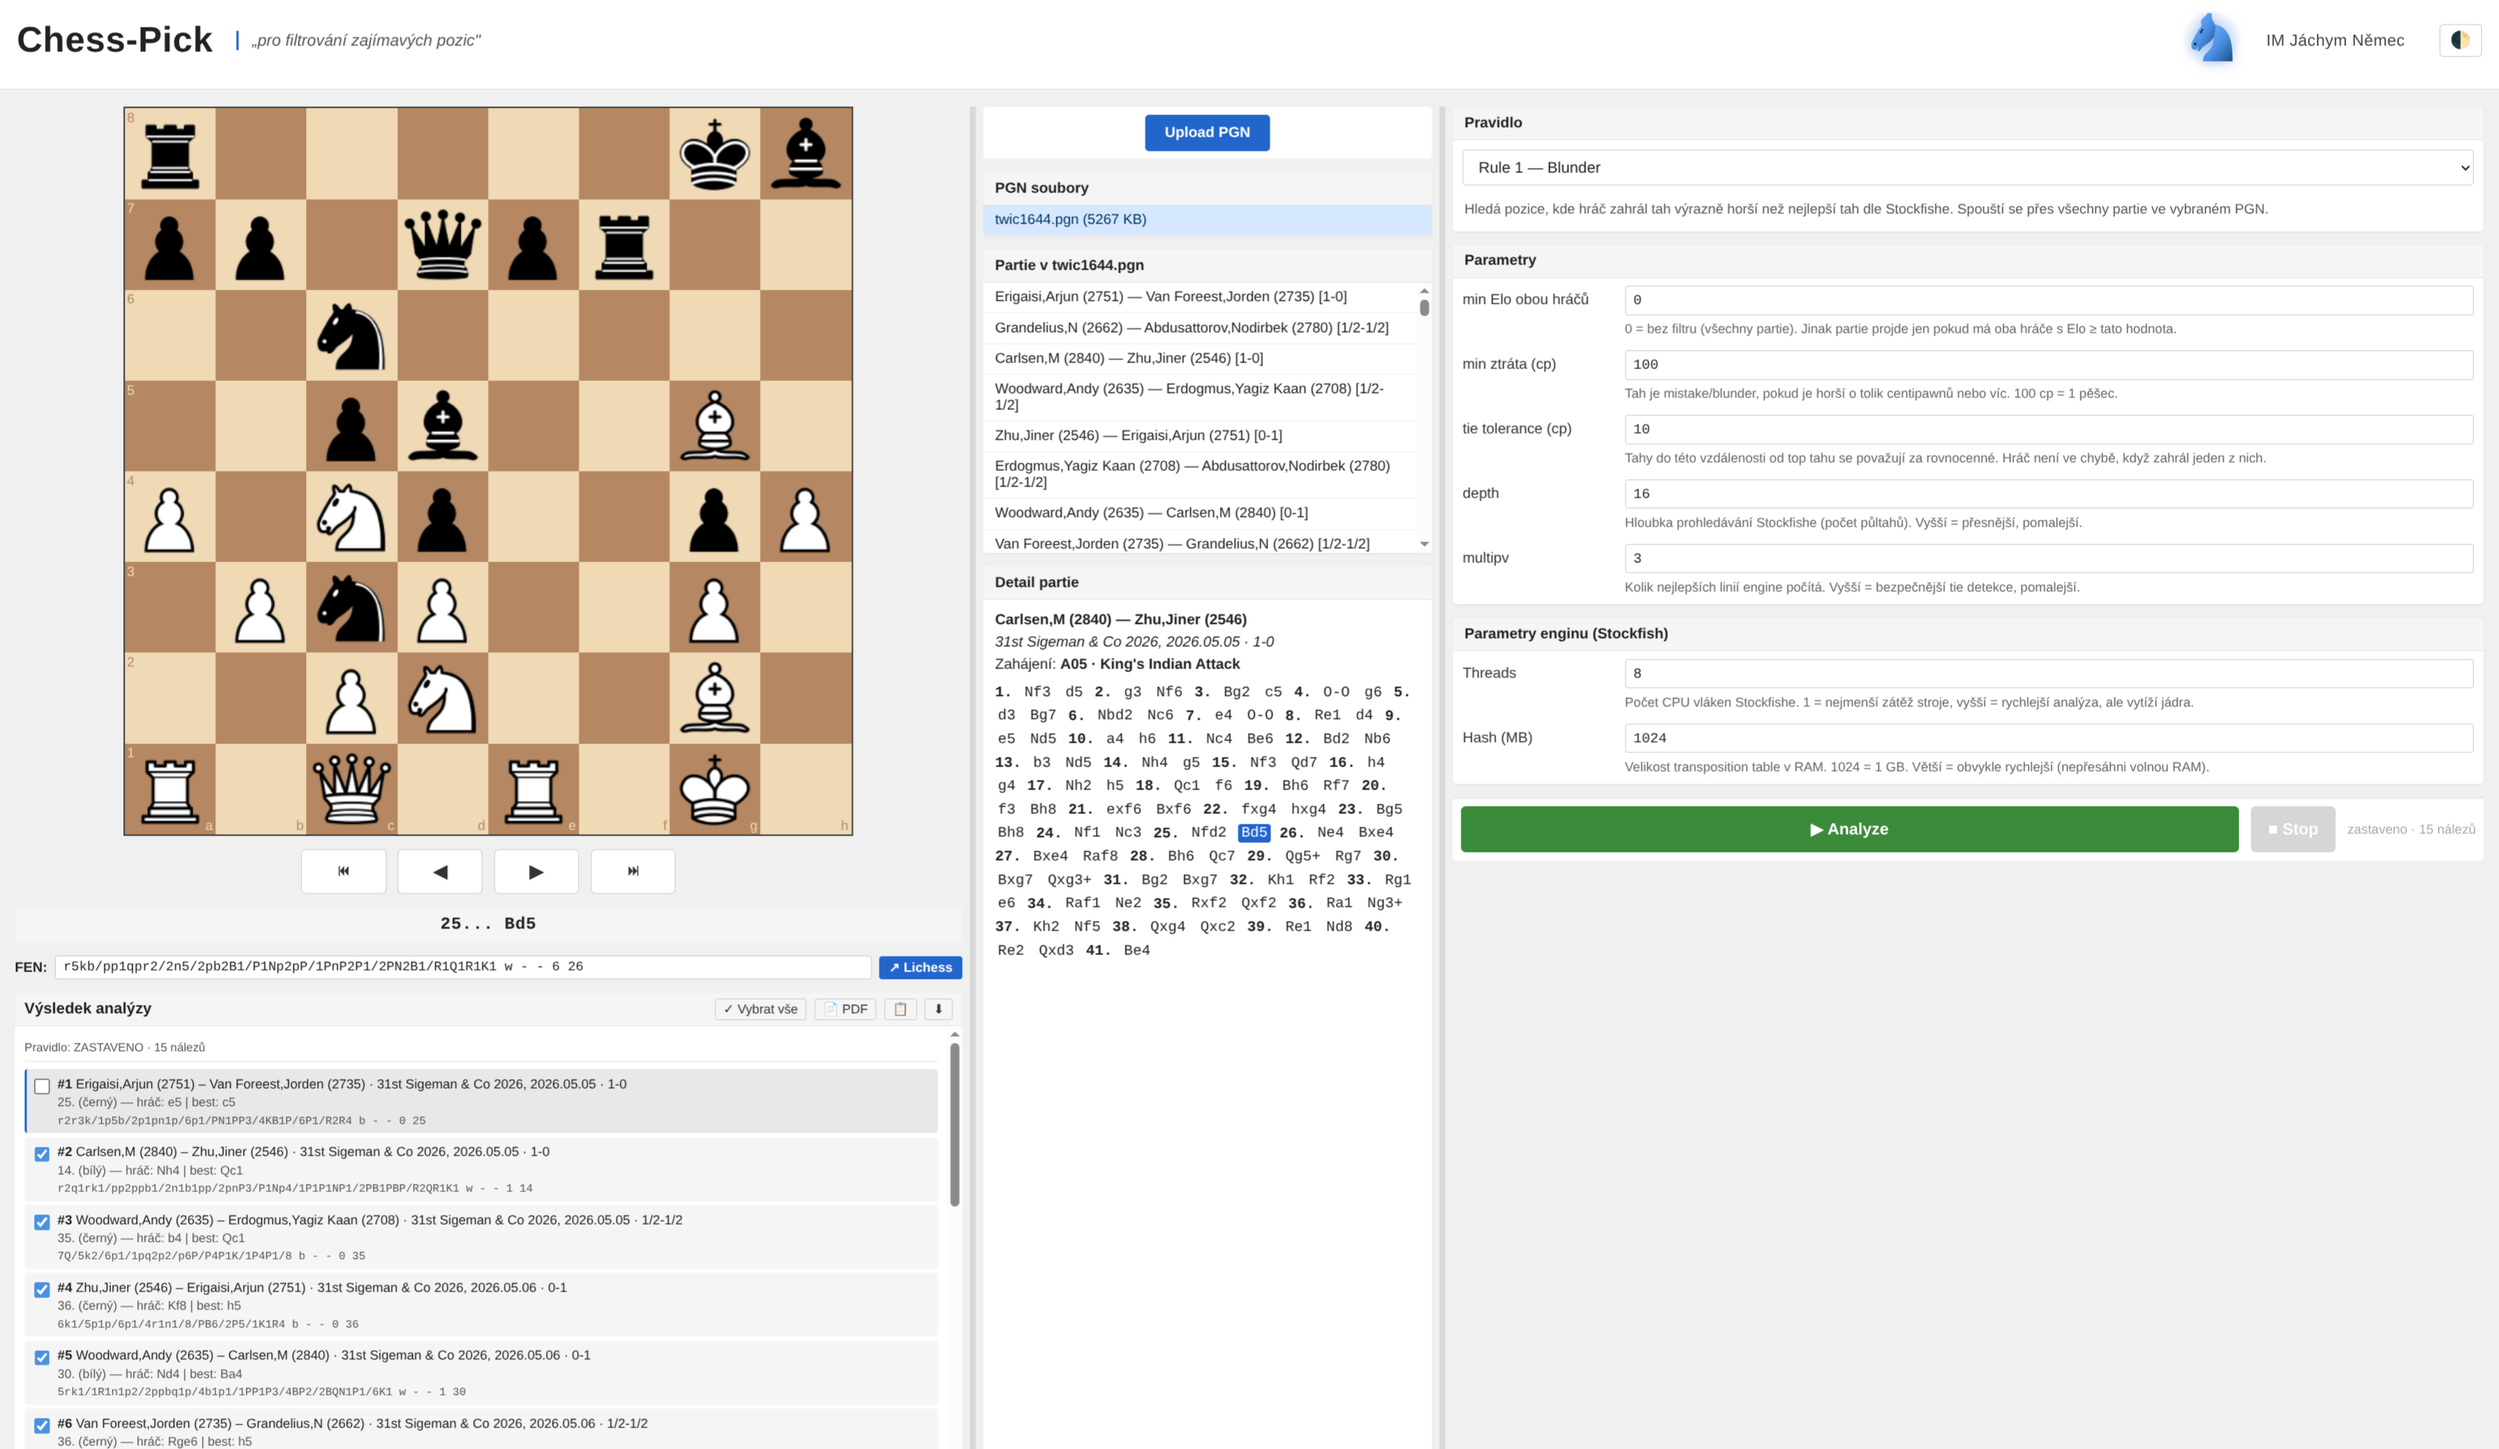
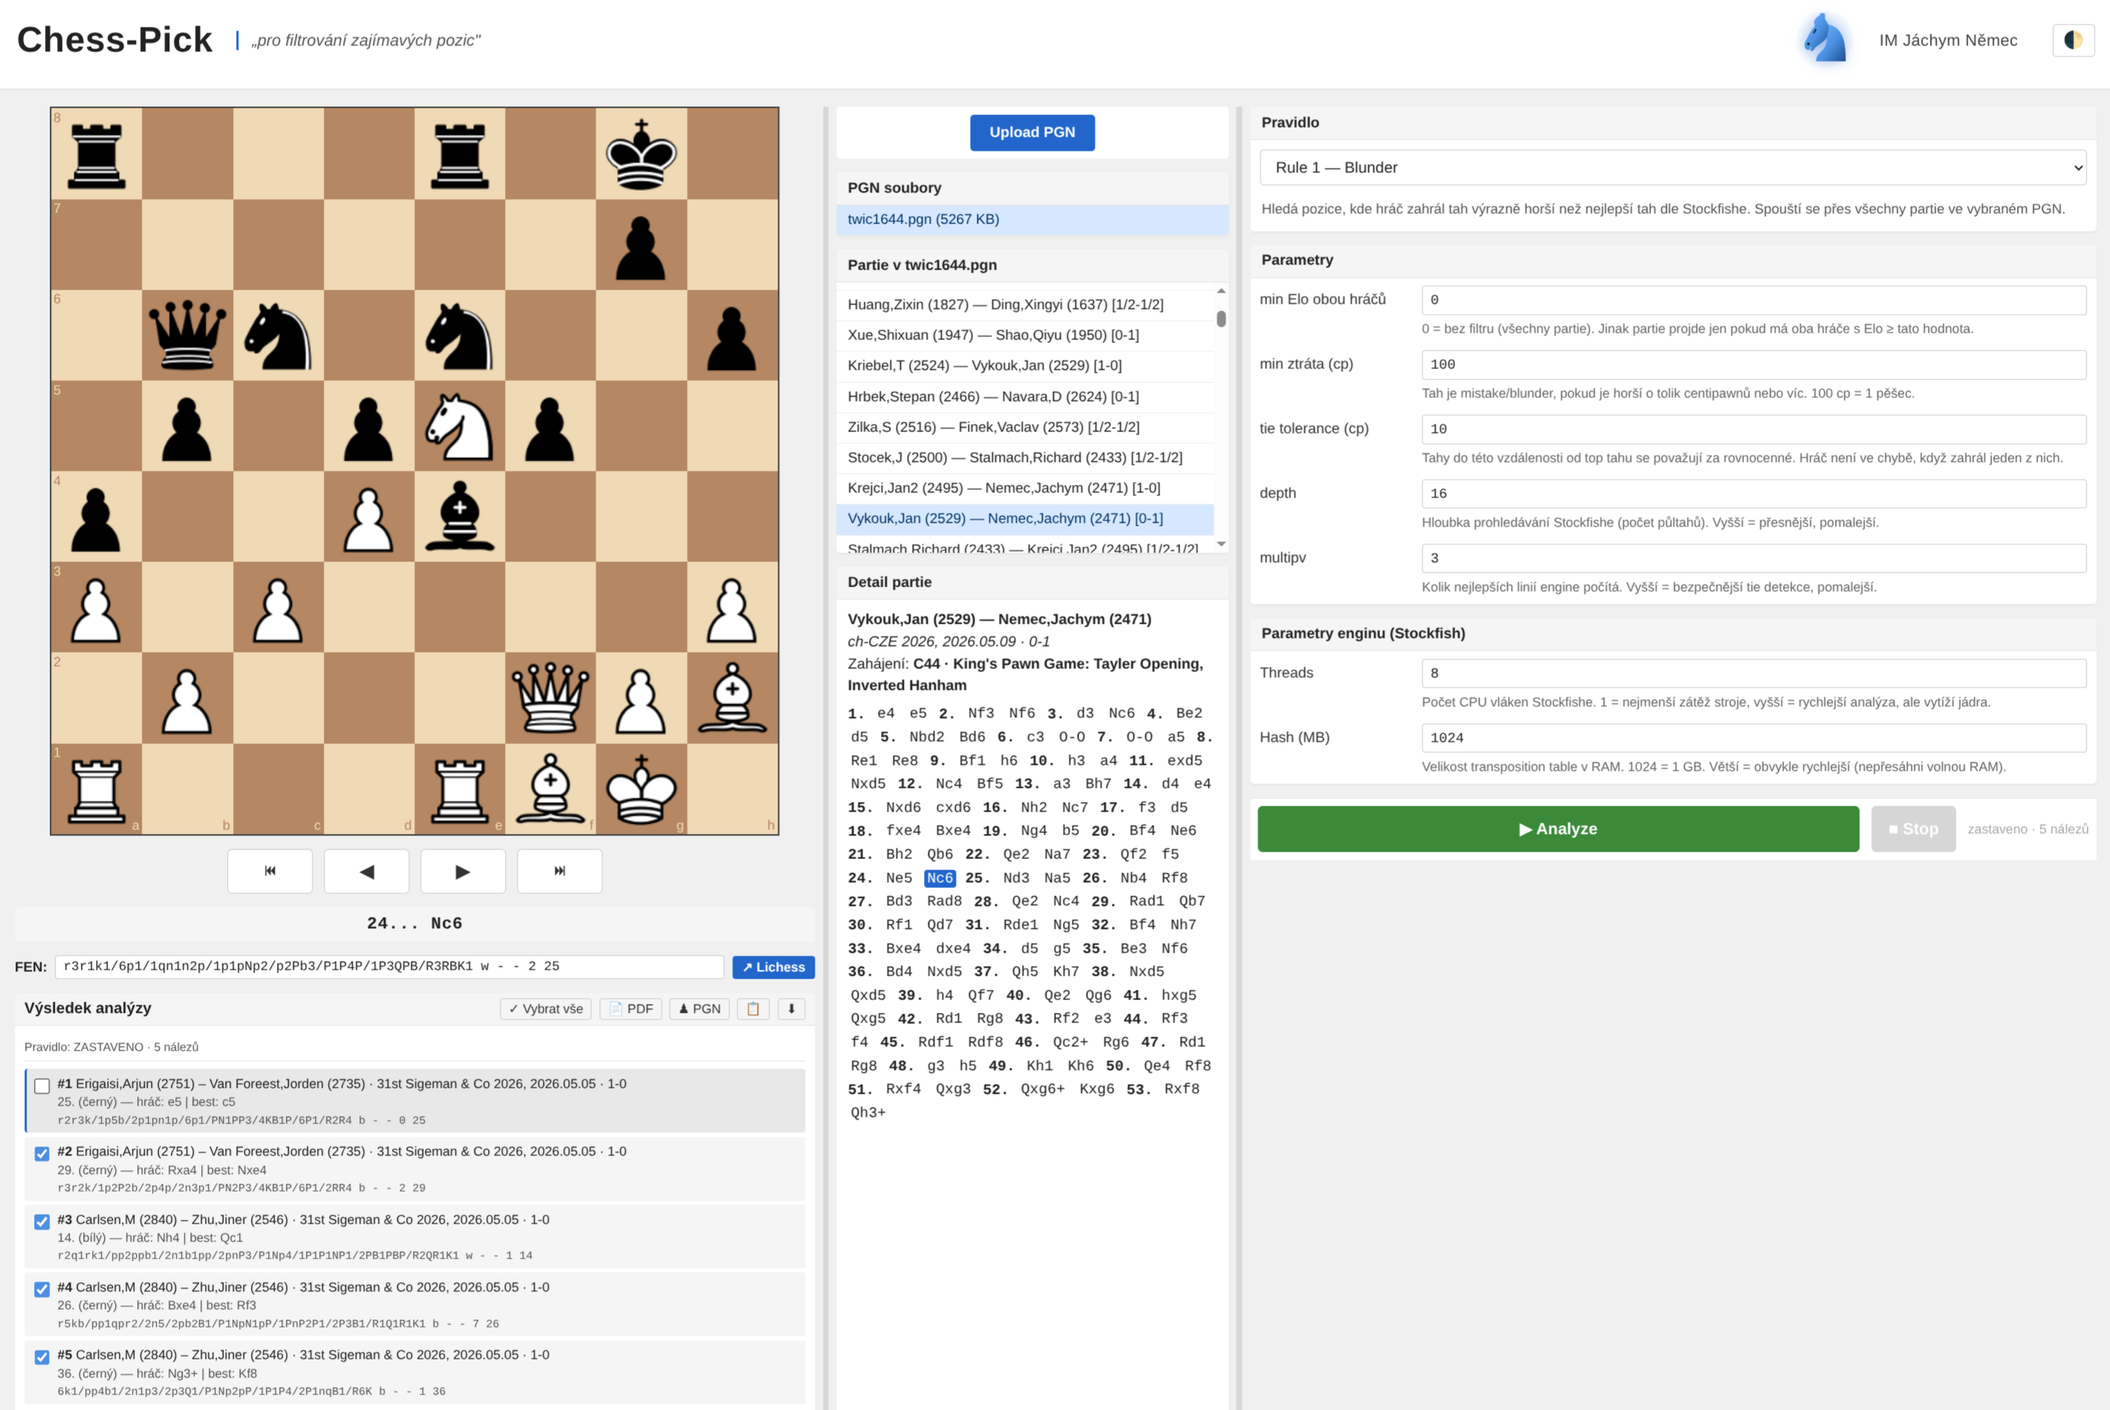
Document the engine params panel and the PGN export
Add the new "Parametry enginu (Stockfish)" subsection to the README
with a screenshot of the Threads/Hash inputs, and append an
illustrative PGN export screenshot to the PGN section. Refresh the
overview image to reflect the current UI (knight in header, PGN
button, selection checkboxes).

Changed region(s): [[0.0, 0.0, 0.9912, 1.0], [0.8363, 0.0, 0.9602, 0.0621]]

diff --git a/README.md b/README.md
@@ -140,6 +140,22 @@ tah mata zvlášť — typ (šach / braní / promotion) a hodnotu (ano / ne / ne
 
 ![Konfigurace mate-in-N](doc/img/rule-mate.png)
 
+### Parametry enginu (Stockfish)
+
+Pod parametry pravidla je v pravém sloupci panel **„Parametry enginu (Stockfish)"**.
+Dvě globální nastavení nezávislá na pravidle (uloží se do localStorage):
+
+- **Threads** — počet vláken Stockfishe. `1` = nejmenší zátěž stroje (engine
+  jede prakticky na pozadí), vyšší = rychlejší analýza za cenu vytížení CPU
+- **Hash (MB)** — velikost transposition table v paměti. `1024` = 1 GB.
+  Větší obvykle = rychlejší (engine si pamatuje víc pozic), nedávej ale
+  víc než máš volné RAM
+
+Hodnoty se posílají s každým ▶ Analyze a aplikují přes UCI `setoption` —
+neovlivňují Rule 3 (struktura), kde se Stockfish vůbec nespouští.
+
+![Parametry enginu](doc/img/parametry_enginu.png)
+
 ### Výsledek analýzy
 
 Po stisku ▶ Analyze běží stream pozic v levém sloupci. ■ Stop přeruší.
@@ -173,6 +189,8 @@ prohlížečky — pozice si pak můžeš dál komentovat / přidat varianty.
 
 Funguje pro všechna pravidla a respektuje výběr checkboxů (do PGN se
 dostanou jen zaškrtnuté nálezy).
+
+![PGN — ukázka anotovaného tahu](doc/img/pgn_ukazka.png)
 
 ### Theme
 
